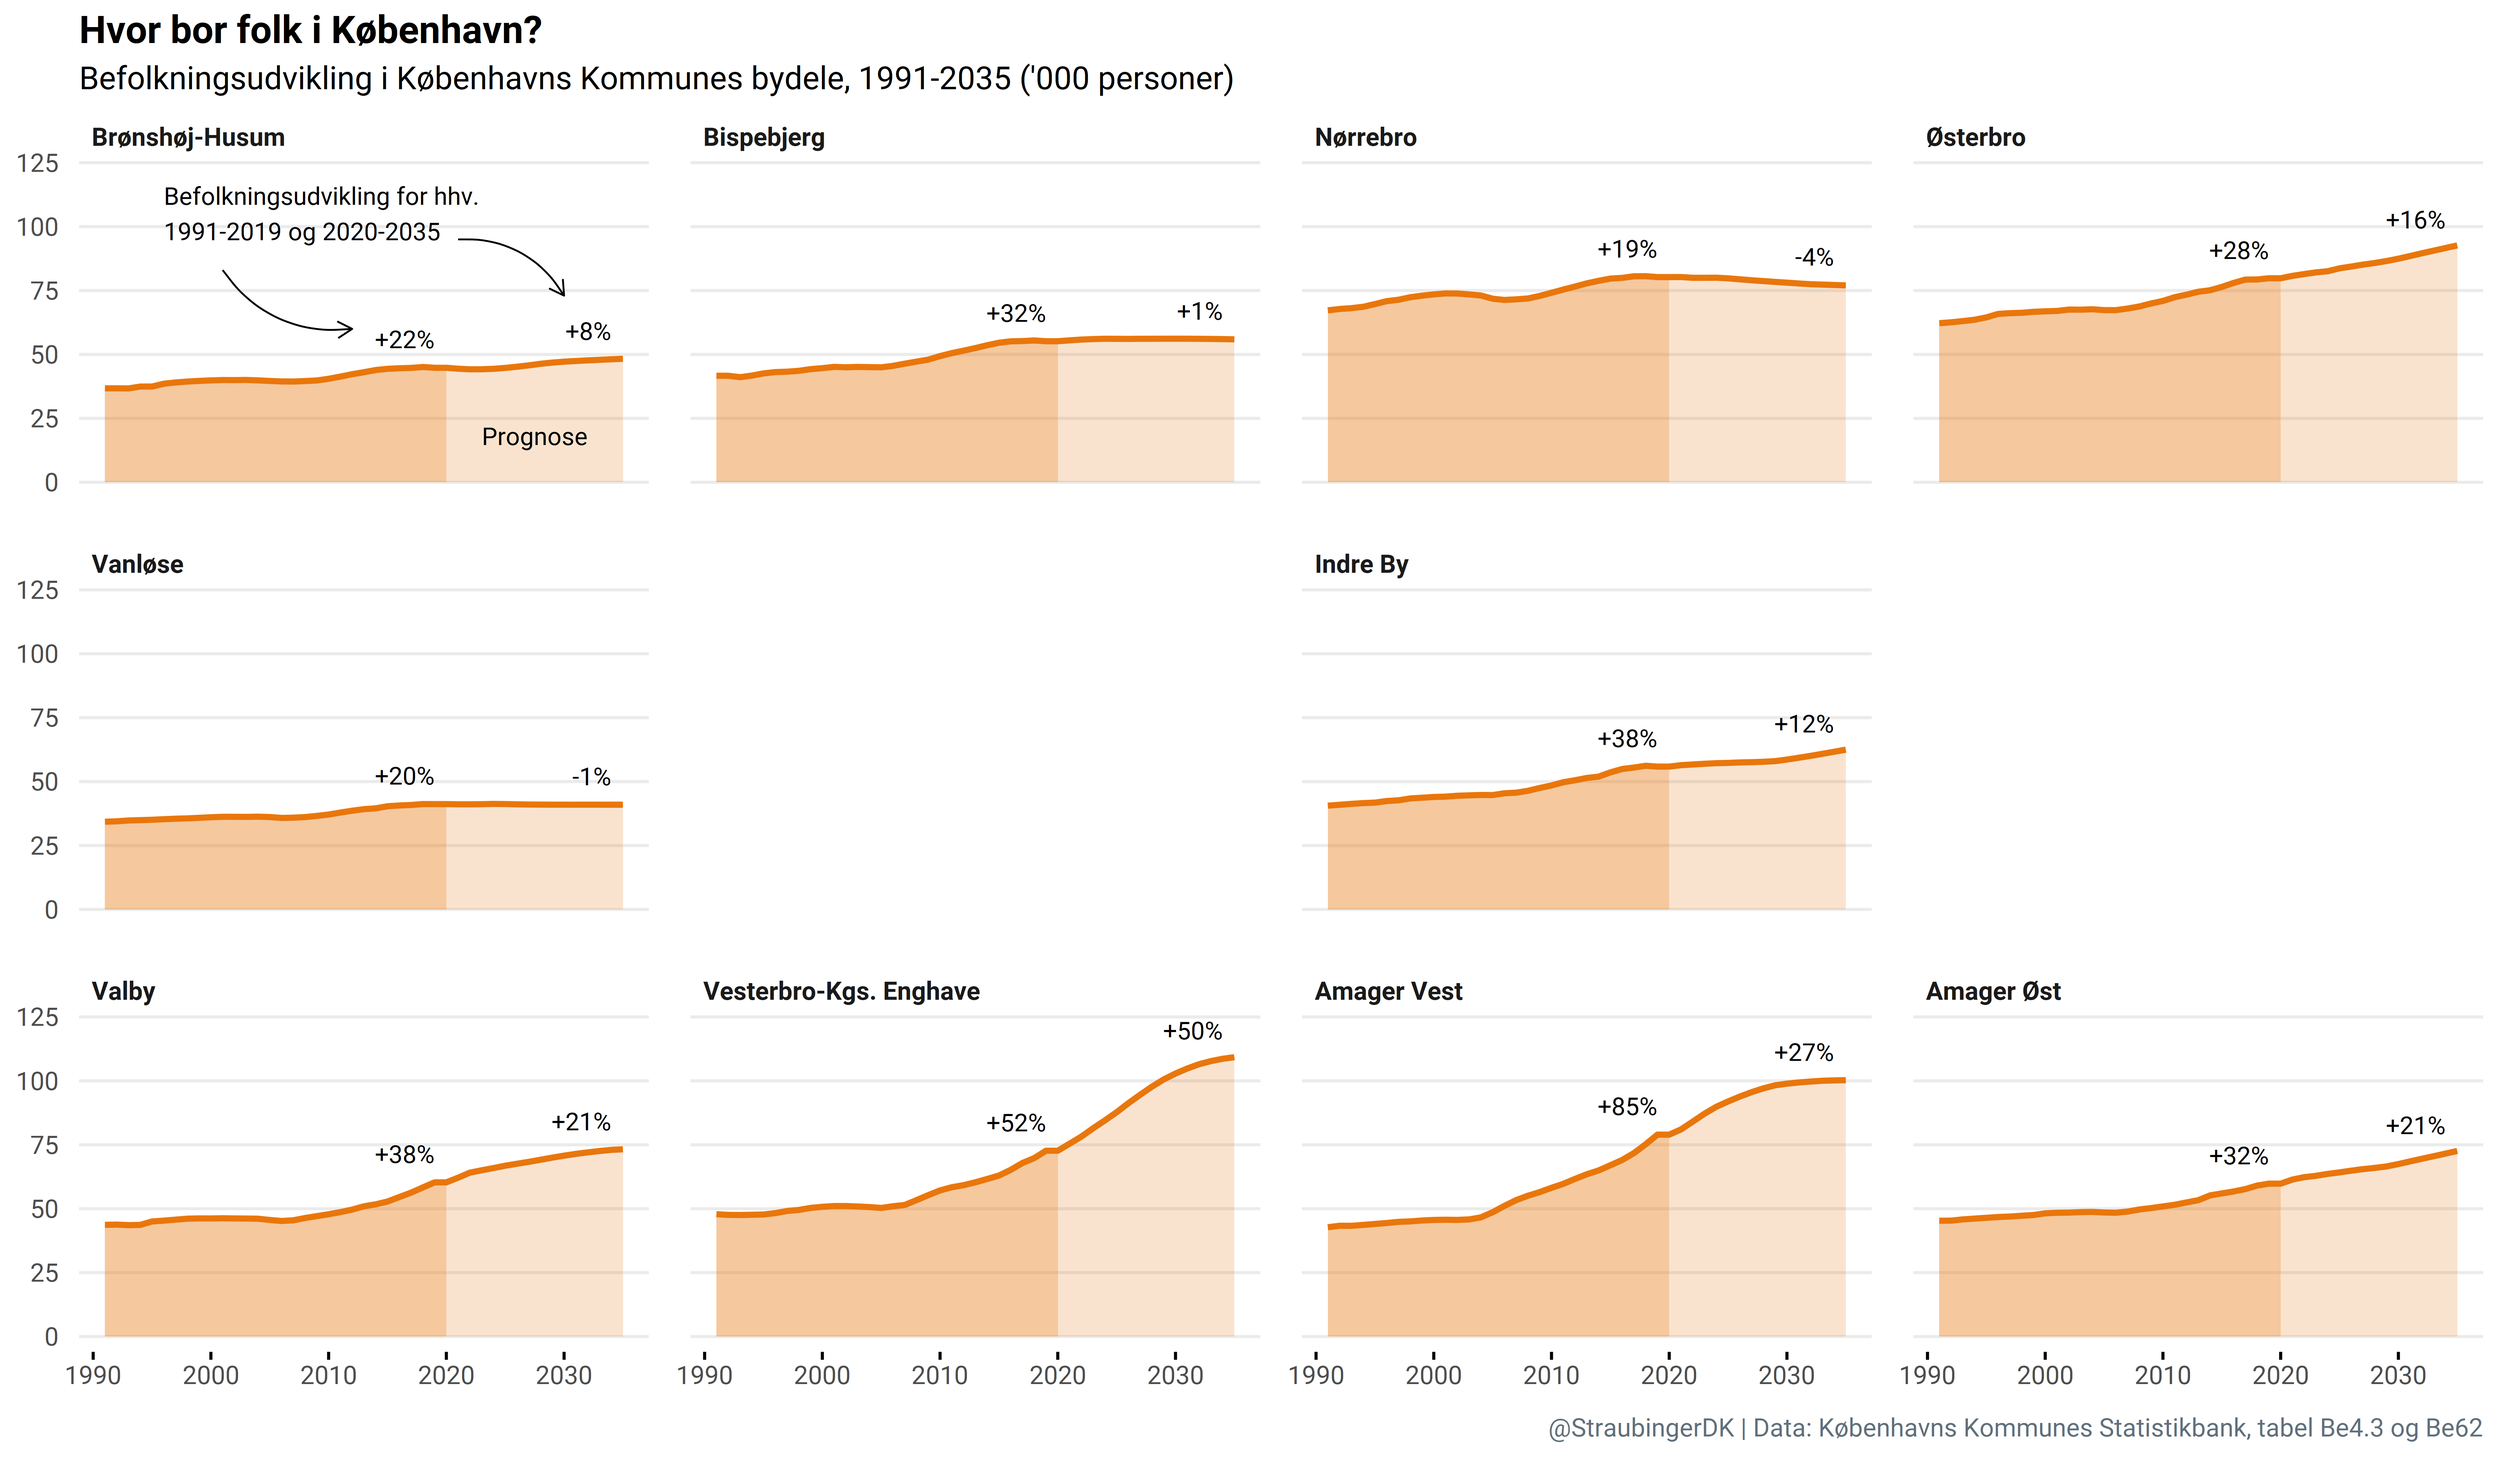
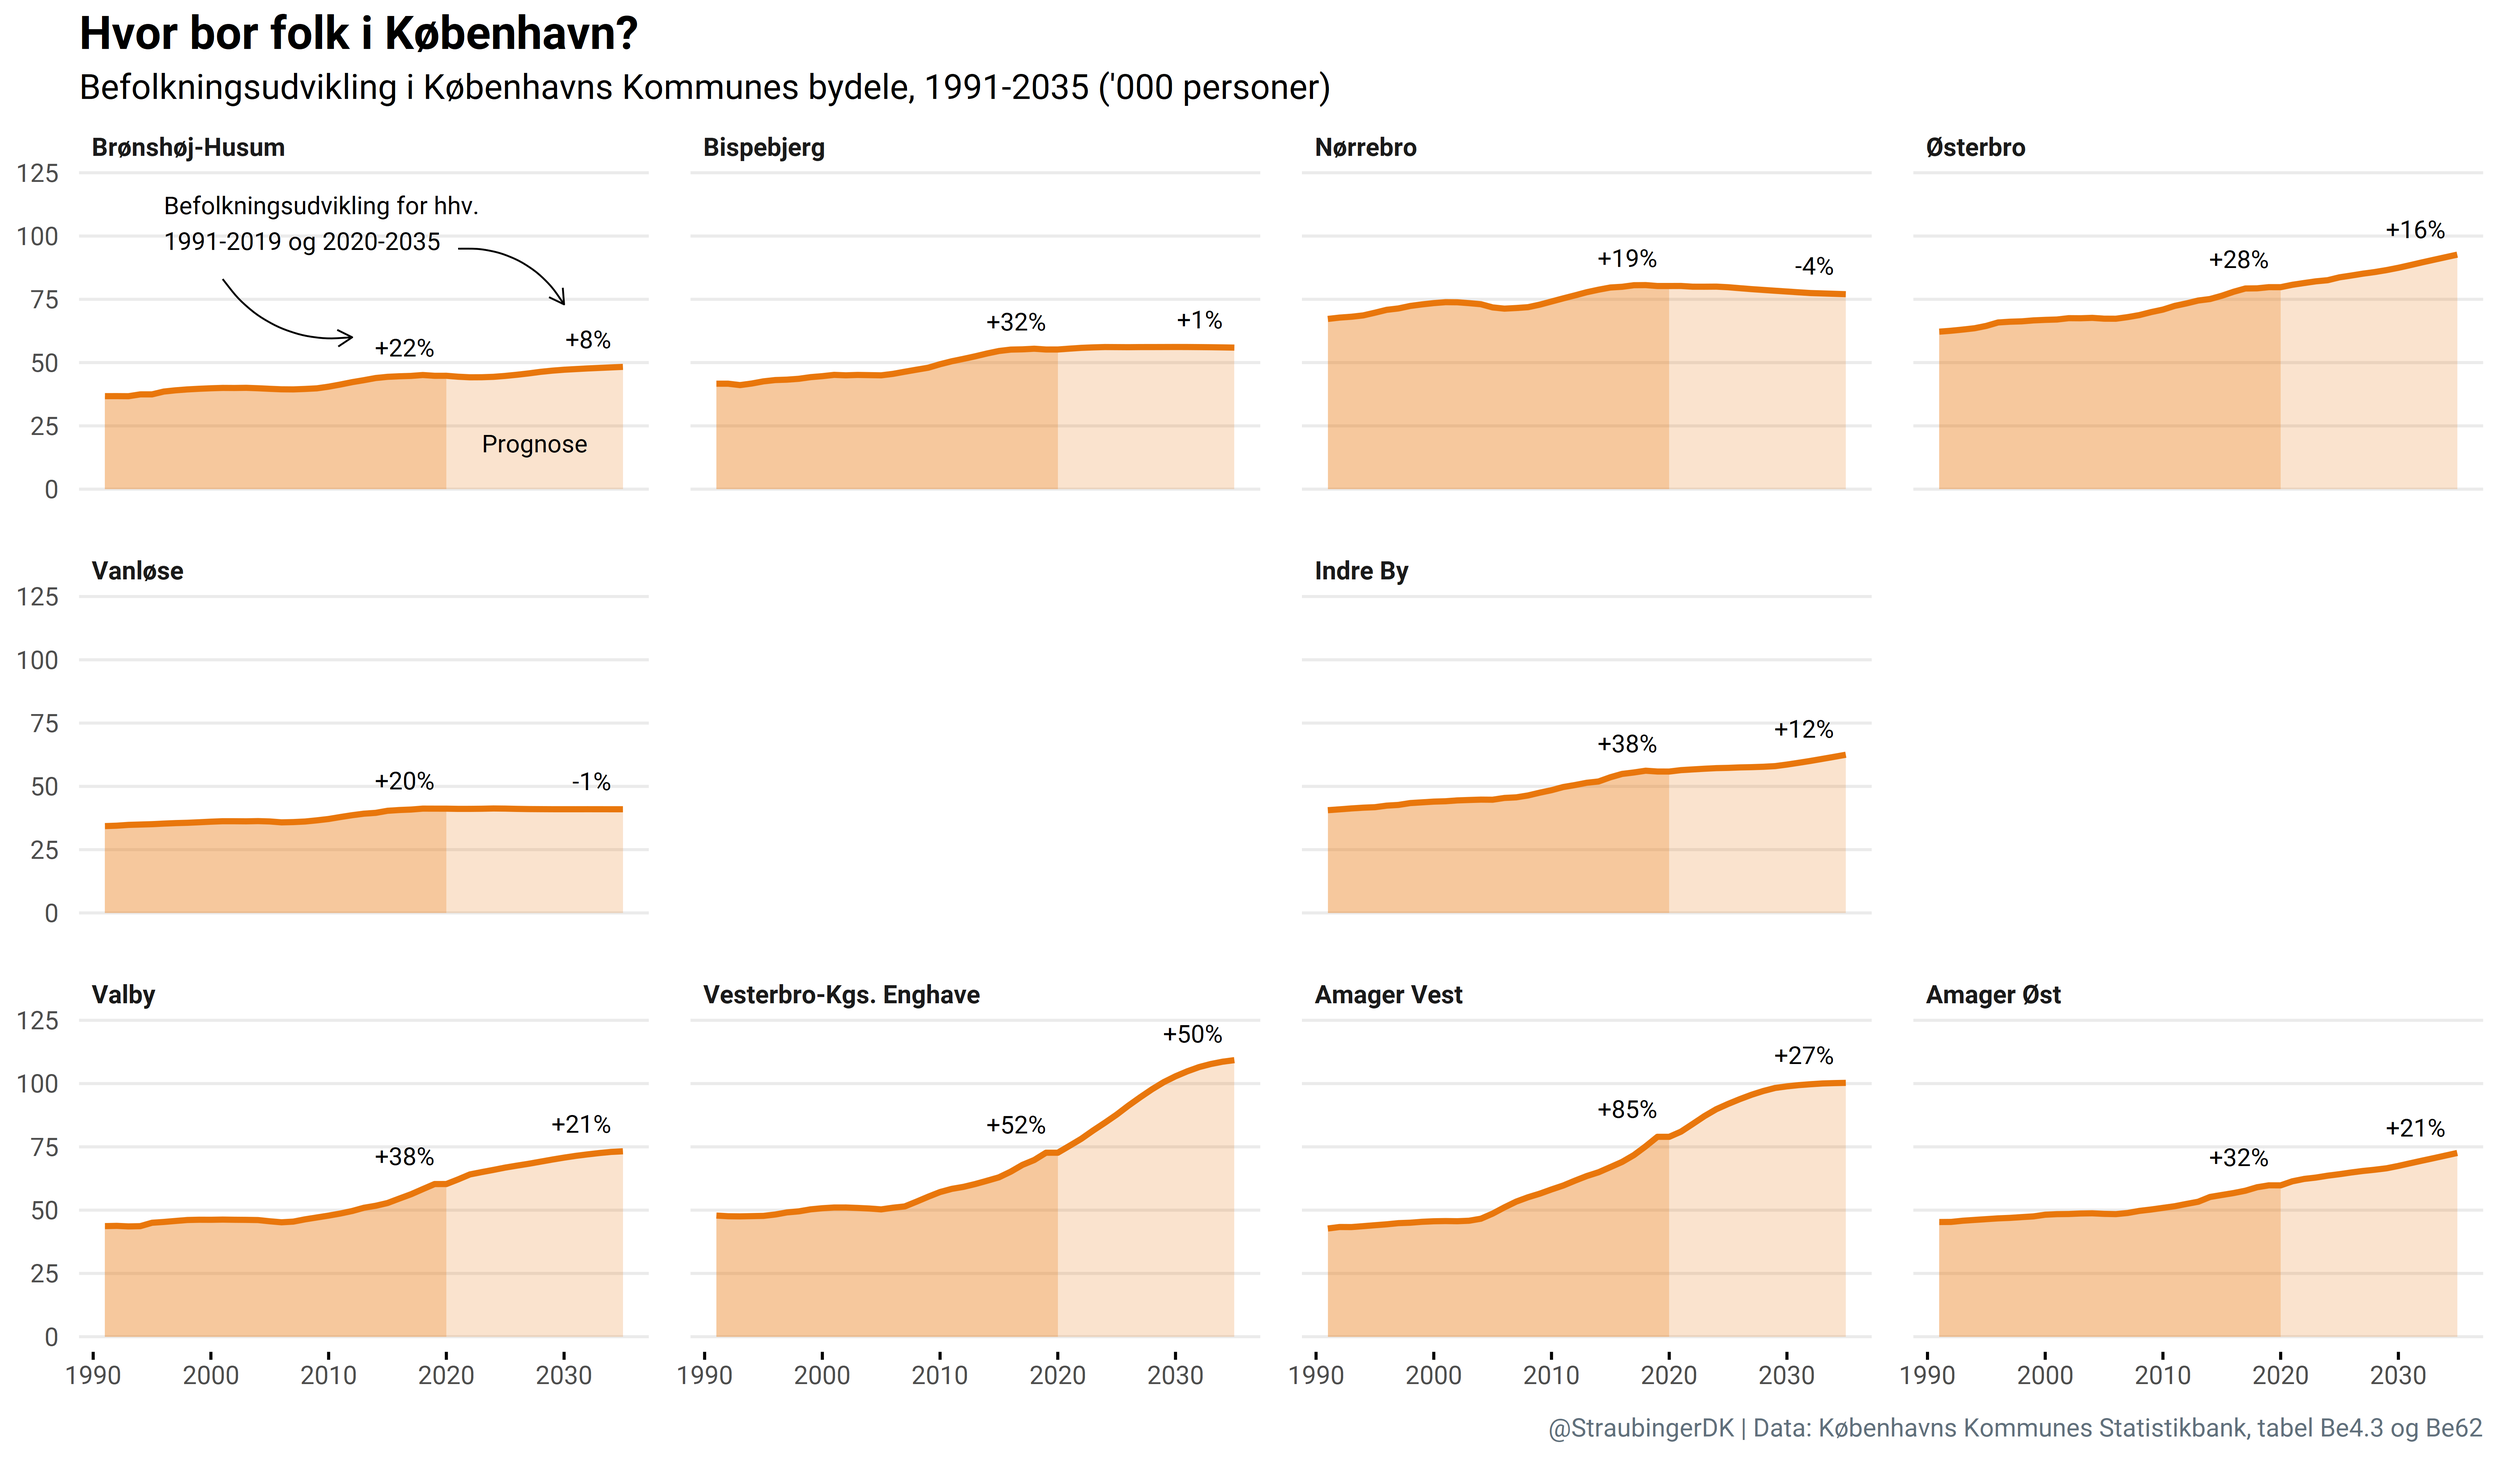
Change font sizes in dataviz projects

diff --git a/public/project/2020-10-04_cph_districts/index.html b/public/project/2020-10-04_cph_districts/index.html
@@ -679,10 +679,10 @@
 <figure id="figure--enlarge">
 
 
-  <a data-fancybox="" href="/project/2020-10-04_cph_districts/plot_cph_pop_huaa3949b5245bcd07e3837eefcf1036c3_413333_2000x2000_fit_lanczos_2.png" data-caption="👆 enlarge">
+  <a data-fancybox="" href="/project/2020-10-04_cph_districts/plot_cph_pop_hufc7f569e8253643b6786a797decdb5a0_418615_2000x2000_fit_lanczos_2.png" data-caption="👆 enlarge">
 
 
-  <img data-src="/project/2020-10-04_cph_districts/plot_cph_pop_huaa3949b5245bcd07e3837eefcf1036c3_413333_2000x2000_fit_lanczos_2.png" class="lazyload" alt="" width="7200" height="4200">
+  <img data-src="/project/2020-10-04_cph_districts/plot_cph_pop_hufc7f569e8253643b6786a797decdb5a0_418615_2000x2000_fit_lanczos_2.png" class="lazyload" alt="" width="7200" height="4200">
 </a>
 
 
@@ -716,10 +716,10 @@
 <figure id="figure--enlarge">
 
 
-  <a data-fancybox="" href="/project/2020-10-04_cph_districts/plot_cph_income_hub6293a344f1bfd230f495a9a79015b0d_485891_2000x2000_fit_lanczos_2.png" data-caption="👆 enlarge">
+  <a data-fancybox="" href="/project/2020-10-04_cph_districts/plot_cph_income_hu36a7da586e107598fd8226ba21dd9a31_491985_2000x2000_fit_lanczos_2.png" data-caption="👆 enlarge">
 
 
-  <img data-src="/project/2020-10-04_cph_districts/plot_cph_income_hub6293a344f1bfd230f495a9a79015b0d_485891_2000x2000_fit_lanczos_2.png" class="lazyload" alt="" width="7200" height="4200">
+  <img data-src="/project/2020-10-04_cph_districts/plot_cph_income_hu36a7da586e107598fd8226ba21dd9a31_491985_2000x2000_fit_lanczos_2.png" class="lazyload" alt="" width="7200" height="4200">
 </a>
 
 

diff --git a/public/index.html b/public/index.html
@@ -1107,7 +1107,7 @@
     
     
     <a href="/project/2020-10-04_cph_districts/"  class="card-image hover-overlay">
-      <img src="/project/2020-10-04_cph_districts/featured_huaa3949b5245bcd07e3837eefcf1036c3_413333_550x0_resize_q90_lanczos_2.png" alt="" class="img-responsive">
+      <img src="/project/2020-10-04_cph_districts/featured_hu22d8b10a118e4134014ee8accf66fa2e_415874_550x0_resize_q90_lanczos_2.png" alt="" class="img-responsive">
     </a>
     
     <div class="card-text">
